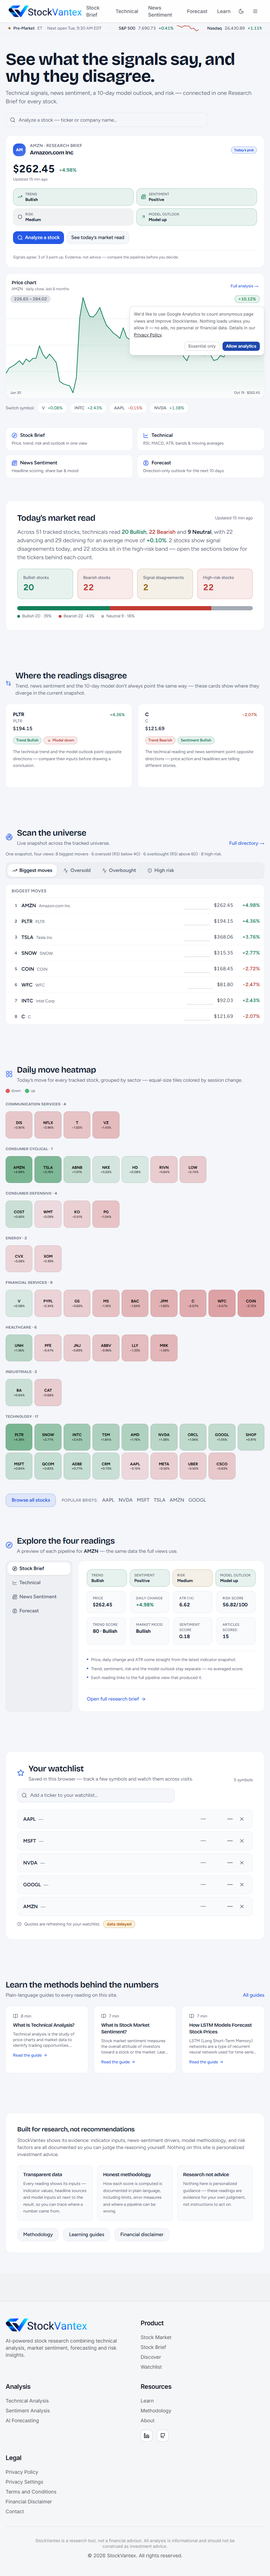
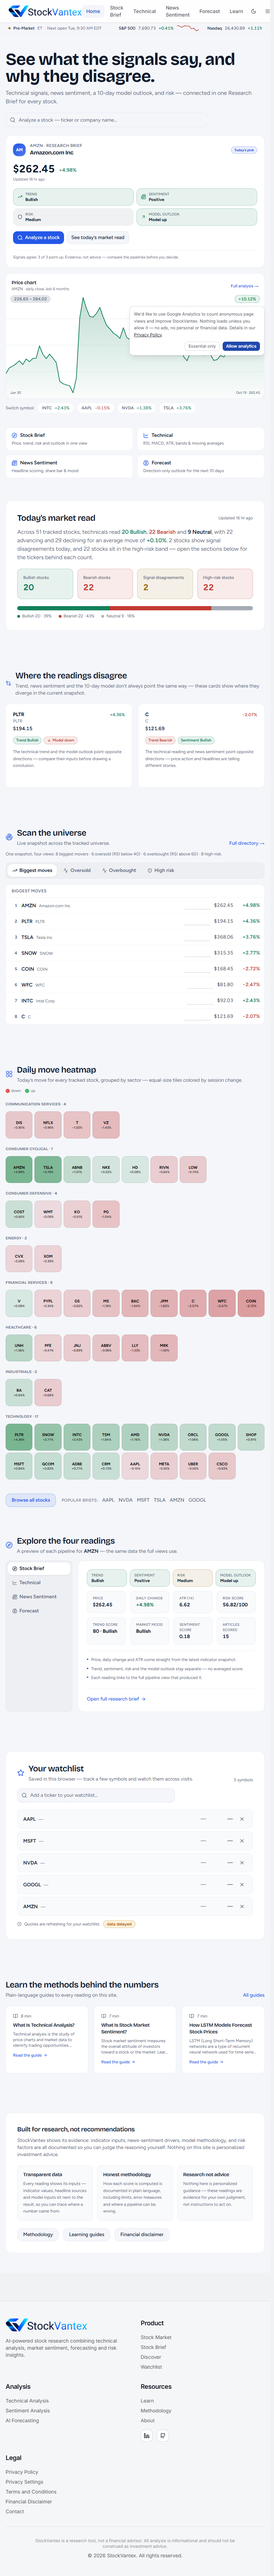
C12: hero chart hover crosshair with date/price/change tooltip; align homepage dark surfaces with app theme; Home link in navbar

diff --git a/src/components/home/HeroAreaChart.tsx b/src/components/home/HeroAreaChart.tsx
@@ -1,4 +1,7 @@
-import { formatPct } from '@/components/home/format';
+'use client';
+
+import { useRef, useState } from 'react';
+import { formatPct, formatPrice } from '@/components/home/format';
 
 type Props = {
   rows: Record<string, any>[];
@@ -10,12 +13,10 @@ const H = 200;
 const PAD_TOP = 10;
 const PAD_BOTTOM = 10;
 
-/**
- * Inline SVG area chart of the daily close series — no external charting
- * dependency on the homepage (server-rendered, zero JS).
- */
+type Datum = { t: number; c: number };
+
 export function HeroAreaChart({ rows, ticker }: Props) {
-  const points: Array<{ t: number; c: number }> = [];
+  const points: Datum[] = [];
   for (const r of rows) {
     const c = Number(r?.Close);
     const t = new Date(String(r?.Date ?? '')).getTime();
@@ -23,6 +24,9 @@ export function HeroAreaChart({ rows, ticker }: Props) {
   }
   const data = points.slice(-126);
   const hasData = data.length >= 2;
+
+  const [hover, setHover] = useState<number | null>(null);
+  const wrapRef = useRef<HTMLDivElement>(null);
 
   let line = '';
   let area = '';
@@ -32,14 +36,16 @@ export function HeroAreaChart({ rows, ticker }: Props) {
   let firstDate = '';
   let lastDate = '';
   let lastPrice = 0;
+  let xOf: (i: number) => number = () => 0;
+  let yOf: (c: number) => number = () => 0;
 
   if (hasData) {
     const closes = data.map((d) => d.c);
     min = Math.min(...closes);
     max = Math.max(...closes);
     const span = max - min || 1;
-    const xOf = (i: number) => (i / (data.length - 1)) * W;
-    const yOf = (c: number) => PAD_TOP + (1 - (c - min) / span) * (H - PAD_TOP - PAD_BOTTOM);
+    xOf = (i: number) => (i / (data.length - 1)) * W;
+    yOf = (c: number) => PAD_TOP + (1 - (c - min) / span) * (H - PAD_TOP - PAD_BOTTOM);
 
     const coords = data.map((d, i) => `${xOf(i).toFixed(1)},${yOf(d.c).toFixed(1)}`);
     line = coords.join(' ');
@@ -53,12 +59,34 @@ export function HeroAreaChart({ rows, ticker }: Props) {
     lastDate = new Date(data[data.length - 1].t).toLocaleDateString('en-US', opts);
   }
 
+  const trackPointer = (clientX: number) => {
+    const el = wrapRef.current;
+    if (!el || !hasData) return;
+    const rect = el.getBoundingClientRect();
+    if (rect.width <= 0) return;
+    const frac = Math.min(1, Math.max(0, (clientX - rect.left) / rect.width));
+    setHover(Math.round(frac * (data.length - 1)));
+  };
+
   const up = change >= 0;
+  const hovered = hover !== null && hasData ? data[hover] : null;
+  const prev = hovered && hover! > 0 ? data[hover! - 1] : null;
+  const dayDelta = hovered && prev ? hovered.c - prev.c : null;
+  const dayUp = dayDelta !== null && dayDelta >= 0;
+  const hoveredPct = hovered ? (xOf(hover!) / W) * 100 : 0;
+  const hoveredYPct = hovered ? (yOf(hovered.c) / H) * 100 : 0;
+  const tooltipBelow = hoveredYPct < 32;
 
   return (
     <div
+      ref={wrapRef}
       className="relative h-[240px] w-full md:h-[300px]"
       style={{ color: up ? 'hsl(var(--success))' : 'hsl(var(--destructive))' }}
+      onMouseMove={(e) => trackPointer(e.clientX)}
+      onMouseLeave={() => setHover(null)}
+      onTouchStart={(e) => trackPointer(e.touches[0].clientX)}
+      onTouchMove={(e) => trackPointer(e.touches[0].clientX)}
+      onTouchEnd={() => setHover(null)}
       {...(hasData
         ? {
             role: 'img',
@@ -104,6 +132,42 @@ export function HeroAreaChart({ rows, ticker }: Props) {
             />
           </svg>
 
+          {hovered && (
+            <>
+              <span
+                aria-hidden="true"
+                className="pointer-events-none absolute top-0 h-full w-px bg-current opacity-30"
+                style={{ left: `${hoveredPct}%` }}
+              />
+              <span
+                aria-hidden="true"
+                className="pointer-events-none absolute z-10 h-2.5 w-2.5 -translate-x-1/2 -translate-y-1/2 rounded-full border-2 bg-card"
+                style={{ left: `${hoveredPct}%`, top: `${hoveredYPct}%`, borderColor: 'currentColor' }}
+              />
+              <div
+                aria-hidden="true"
+                className="pointer-events-none absolute z-10 min-w-[7.5rem] -translate-x-1/2 rounded-md border border-border/60 bg-card px-2 py-1.5 text-foreground shadow-lg"
+                style={{
+                  left: `${Math.min(88, Math.max(12, hoveredPct))}%`,
+                  top: tooltipBelow ? `calc(${hoveredYPct}% + 14px)` : `calc(${hoveredYPct}% - 14px)`,
+                  transform: `translate(-50%, ${tooltipBelow ? '0' : '-100%'})`,
+                }}
+              >
+                <div className="text-[10px] font-medium uppercase tracking-wide text-muted-foreground">
+                  {new Date(hovered.t).toLocaleDateString('en-US', { month: 'short', day: 'numeric', year: 'numeric' })}
+                </div>
+                <div className="flex items-center gap-1.5">
+                  <span className="text-xs font-semibold tabular-nums">{formatPrice(hovered.c)}</span>
+                  {dayDelta !== null && (
+                    <span className={`pill tabular-nums ${dayUp ? 'pill-bull' : 'pill-bear'}`}>
+                      {formatPct(prev && prev.c !== 0 ? (dayDelta / prev.c) * 100 : 0)}
+                    </span>
+                  )}
+                </div>
+              </div>
+            </>
+          )}
+
           <span className="absolute left-3 top-2 pill pill-mute tabular-nums">
             {min.toLocaleString('en-US', { minimumFractionDigits: 2, maximumFractionDigits: 2 })} – {max.toLocaleString('en-US', { minimumFractionDigits: 2, maximumFractionDigits: 2 })}
           </span>
@@ -112,7 +176,7 @@ export function HeroAreaChart({ rows, ticker }: Props) {
           </span>
           <span className="absolute bottom-2 left-3 text-[10px] font-medium text-muted-foreground">{firstDate}</span>
           <span className="absolute bottom-2 right-3 text-[10px] font-medium text-muted-foreground">
-            {lastDate} · ${lastPrice.toLocaleString('en-US', { minimumFractionDigits: 2, maximumFractionDigits: 2 })}
+            {lastDate} · {formatPrice(lastPrice)}
           </span>
         </>
       ) : (

diff --git a/src/index.css b/src/index.css
@@ -426,17 +426,17 @@
 }
 
 .dark .sv-scope {
-  --background: 220 49% 8.4%;
-  --foreground: 217 53% 94.1%;
-  --card: 220 42% 12.7%;
-  --card-foreground: 217 53% 94.1%;
-  --popover: 220 42% 12.7%;
-  --popover-foreground: 217 53% 94.1%;
+  --background: 224 25% 8%;
+  --foreground: 210 20% 94%;
+  --card: 224 22% 11%;
+  --card-foreground: 210 20% 94%;
+  --popover: 224 22% 11%;
+  --popover-foreground: 210 20% 94%;
   --primary: 225 100% 71.6%;
-  --primary-foreground: 220 49% 8.4%;
-  --muted-foreground: 217 21% 64.9%;
-  --border: 218 35% 21.6%;
-  --input: 218 35% 21.6%;
+  --primary-foreground: 224 25% 8%;
+  --muted-foreground: 215 16% 60%;
+  --border: 224 16% 17%;
+  --input: 224 16% 17%;
   --ring: 225 100% 71.6%;
   --success: 156 57% 52.2%;
   --success-bg: 168 48% 12.7%;

diff --git a/src/components/layout/Navbar.tsx b/src/components/layout/Navbar.tsx
@@ -12,6 +12,7 @@ import { cn } from '@/lib/utils';
 import { StockSearch } from '@/components/common/StockSearch';
 
 const NAV_LINKS = [
+  { href: '/', label: 'Home' },
   { href: '/markets/brief', label: 'Stock Brief' },
   { href: '/markets/stock/technical', label: 'Technical' },
   { href: '/markets/stock/sentiment', label: 'News Sentiment' },
